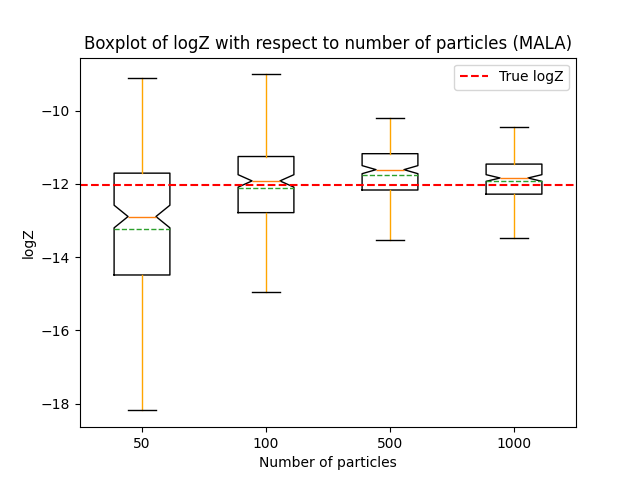
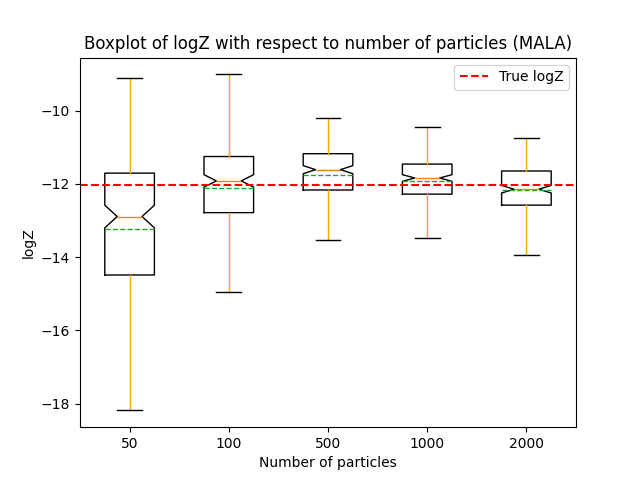
updated logZ calculation

diff --git a/notebooks/sequential_mc/smc_analysis.py b/notebooks/sequential_mc/smc_analysis.py
@@ -60,19 +60,19 @@ log_var_0 = jnp.log(sigma_0**2)
 log_gamma_0 = IsotropicGauss(mu=mu_0, log_var=log_var_0)
 
 
-mu_1 = jnp.ones(dim)
-sigma_1 = 0.3
-log_var_1 = jnp.log(sigma_1**2)
-log_gamma_T = IsotropicGauss(mu=mu_1, log_var=log_var_1)
+# mu_1 = jnp.ones(dim)
+# sigma_1 = 0.3
+# log_var_1 = jnp.log(sigma_1**2)
+# log_gamma_T = IsotropicGauss(mu=mu_1, log_var=log_var_1)
 
-# log_gamma_T = NealFunnel()
+log_gamma_T = NealFunnel()
 # log_gamma_T = Banana2D()
 
 num_particles_arr = [50, 100, 500, 1000, 2000]
 num_run = 200
 N = 10
 coefs = jnp.arange(N+1)/N
-method = "MALA"
+method = "RWM"
 data1 = {"N_arr": num_particles_arr, "logZ": []}
 for num_particles in num_particles_arr:
     GSMC = GeometricSMC(log_gamma_0= log_gamma_0, log_gamma_T= log_gamma_T, coefs=coefs, \
